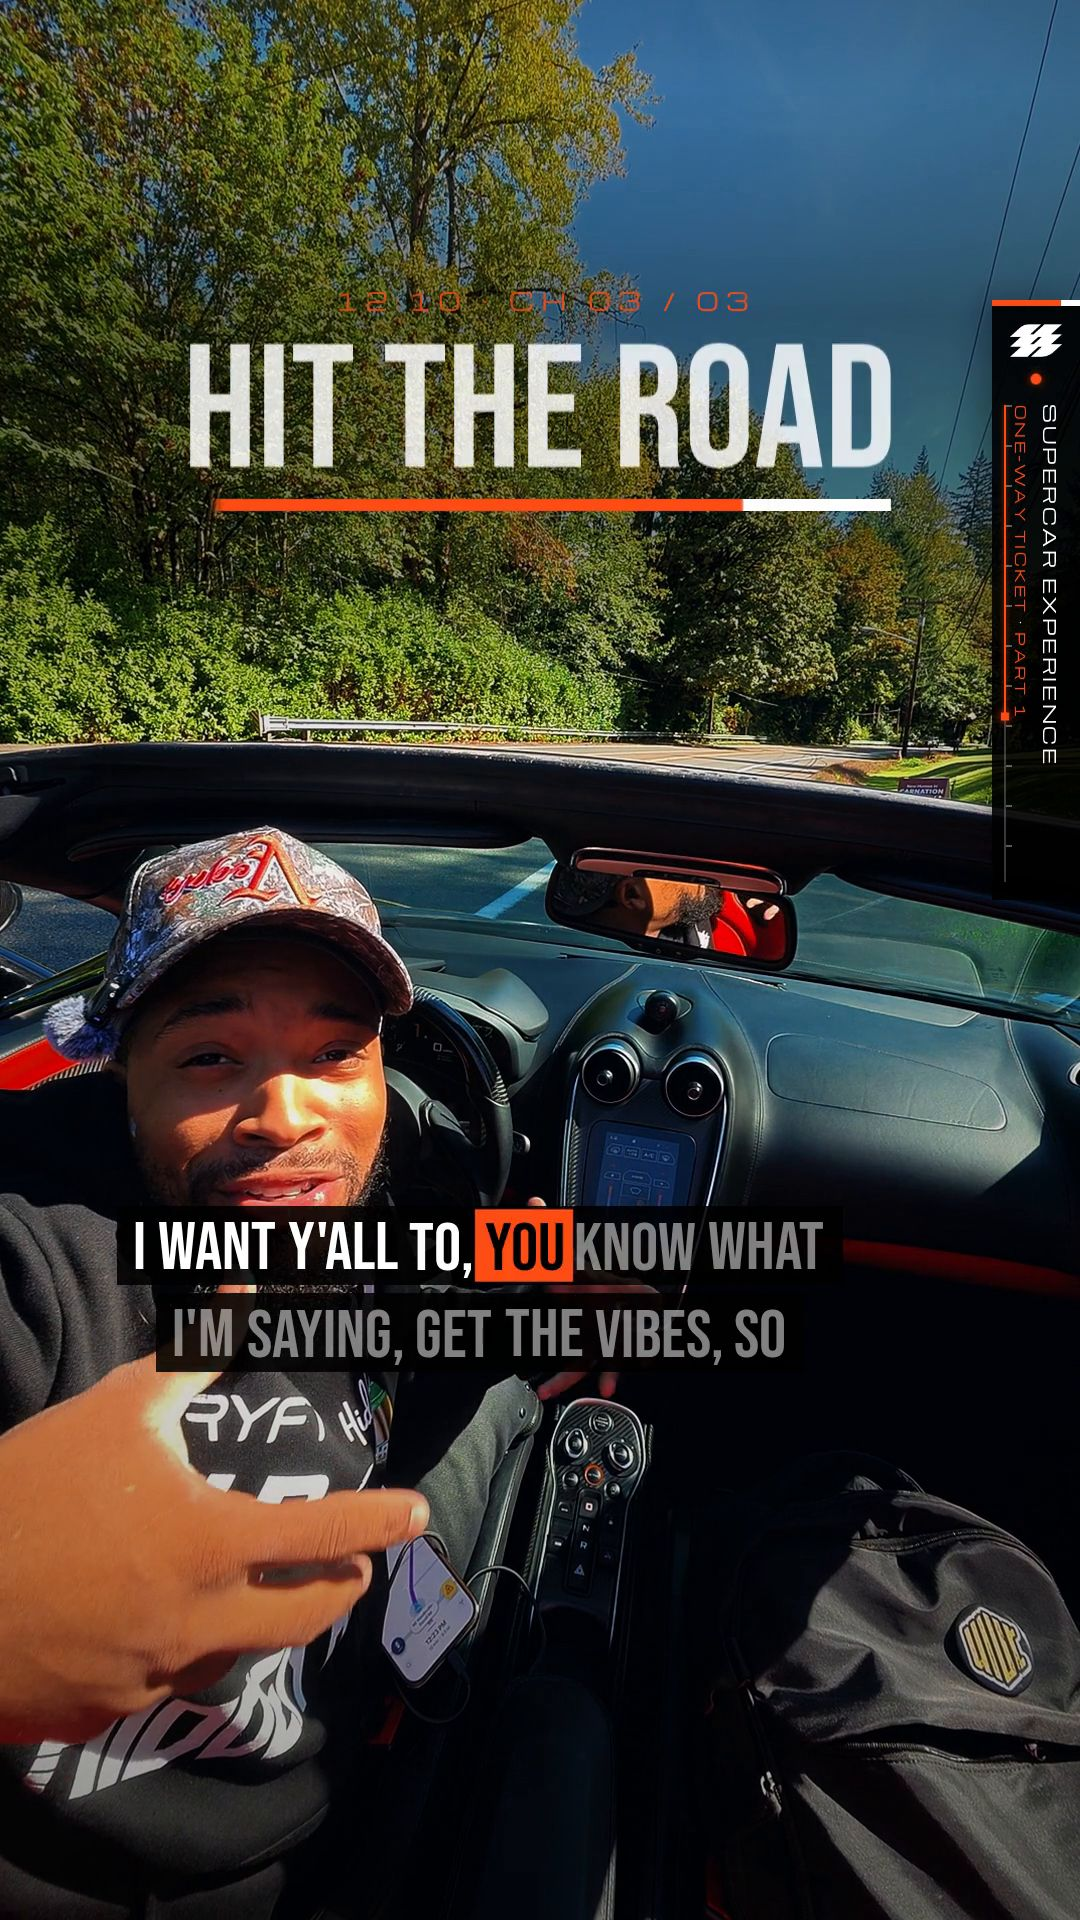
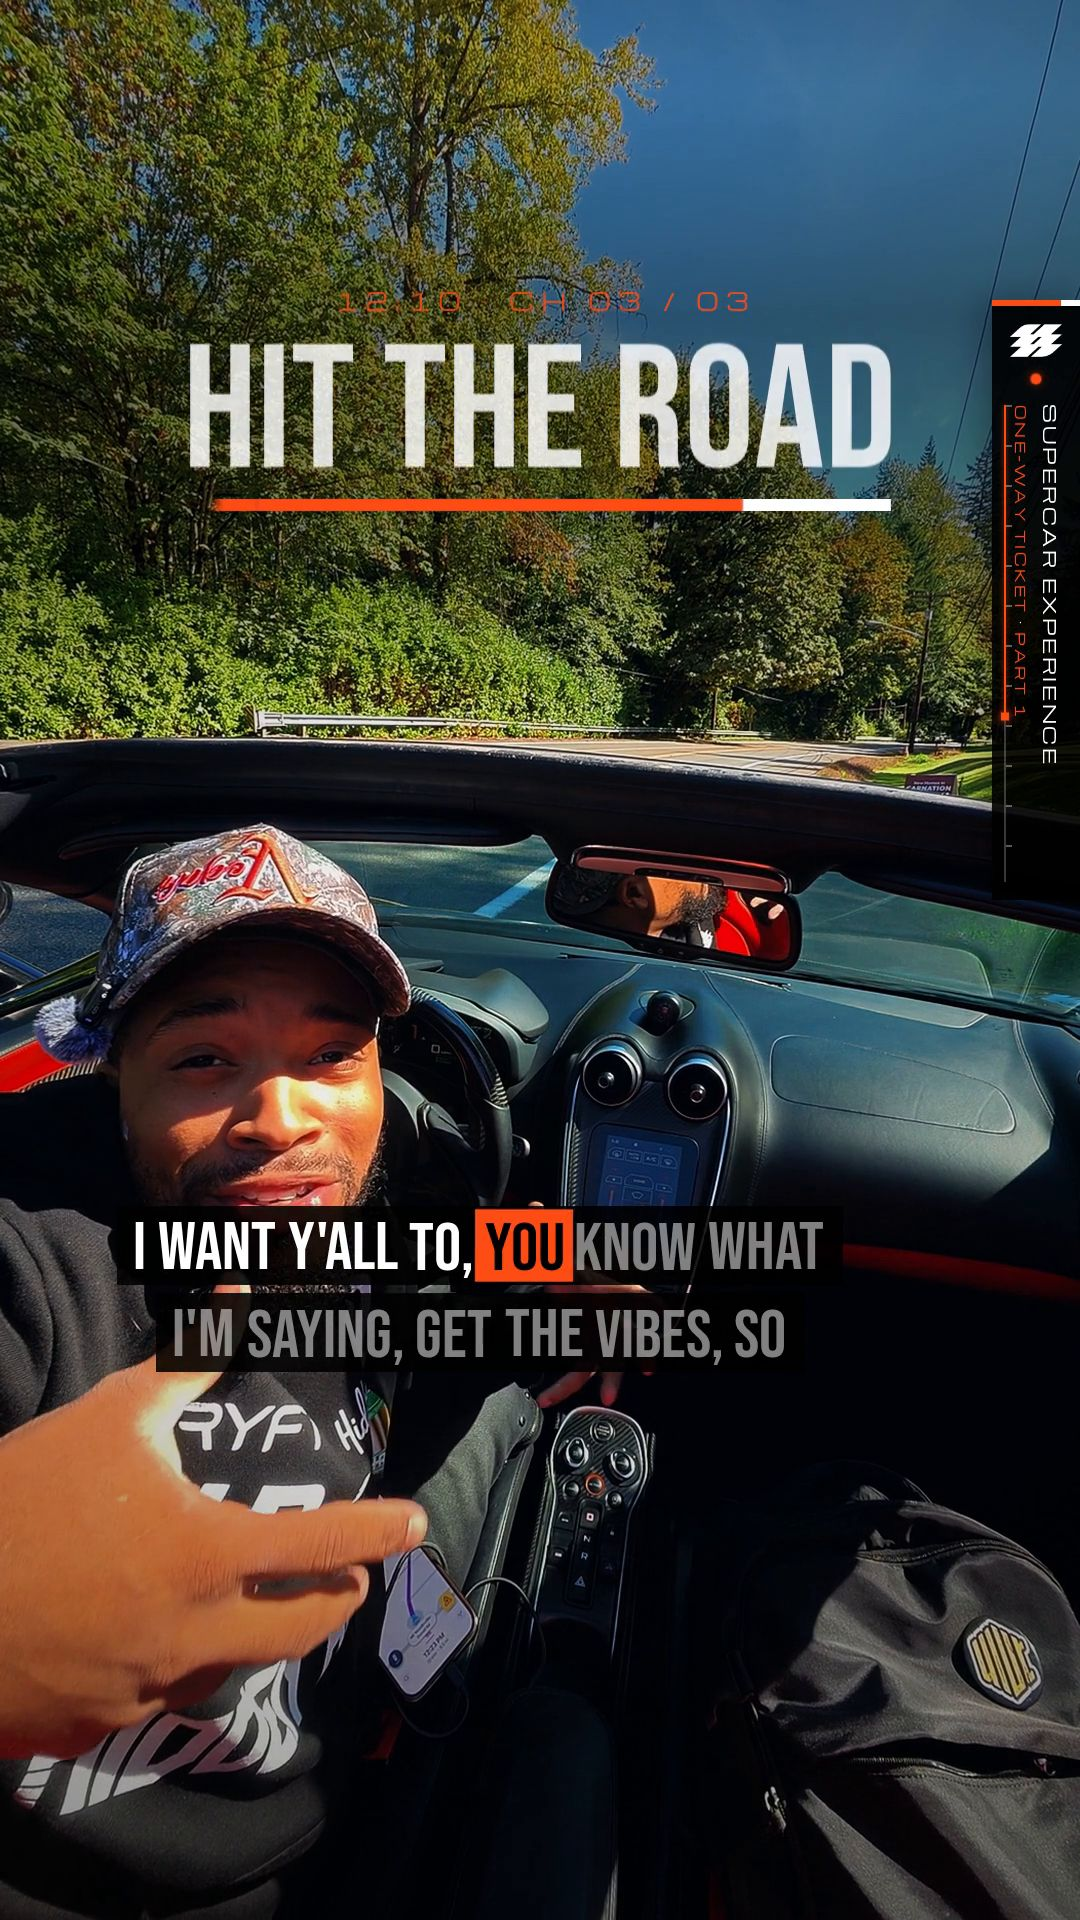
SE vlog One-way ticket Part 1: road cutaway over the stopped-at-junction phone (0094), 0094 phone span forbidden
Picture-only cutaway (0095 33.9-36.1 s, hands on the wheel, cluster blurred) at
116.0-118.2 s; dialog and captions unchanged. Re-rendered; DELIVERY 11.499 Mb/s,
-14.11 LUFS / -1.78 dBTP, gates 0 errors.

Claude-Session: https://claude.ai/code/session_013JoCuN8AVJiDRcQU8W2e21

diff --git a/supercar-experience/10-vlog-locked-on/2026-09-26-one-way-ticket/part1/tools/make_edl.py b/supercar-experience/10-vlog-locked-on/2026-09-26-one-way-ticket/part1/tools/make_edl.py
@@ -90,7 +90,9 @@ beat('CH2', '"It is beautiful out here, like gorgeous. Like I\'m talking gorgeou
 
 # ---------------------------------------------------------------- CH3 HIT THE ROAD (12:10)
 beat('CH3', 'CH3 slam; "I like it. I want y\'all to get the vibe. So you feel me? We gonna get the vibes right now."', [
-    ('0094', 2.2, 7.0, 1.0, 'SYNC: him, then the camera turns to the road'),
+    ('0094', 2.2, 3.2, 1.0, 'SYNC: him, then the camera turns to the road'),
+    ('0095', 33.9, 2.2, 1.0, 'CUTAWAY over 116.0-118.2: he holds and taps a lit phone at a junction (0094 5.6-7.6 s), so the picture is the road (his audio and captions run on)'),
+    ('0094', 7.6, 1.6, 1.0, 'SYNC: back to him, hand off the phone'),
 ], [('0094', 2.34, 9.06, ('sync', 0))])
 beat('CH3', 'the vibes: forest montage (music up, nat under)', [
     ('0095', 46.0, 1.7, 1.0, 'forest'),

diff --git a/supercar-experience/10-vlog-locked-on/2026-09-26-one-way-ticket/part1/cue.md b/supercar-experience/10-vlog-locked-on/2026-09-26-one-way-ticket/part1/cue.md
@@ -35,19 +35,21 @@ Timeline: 5401 frames at 30000/1001 fps = 180.213 s. Frame n is shown at n x 100
 | 26 | 96.80 | 2901-2984 | 0091 | 14.80-17.57 (1x) | cabin | c centre s 1.0-1.04 |  |
 | 27 | 99.60 | 2985-3134 | 0092 | 7.80-18.51 (ramp 0.00:1.0 0.34:1.0 0.50:3.0 1.00:3.0) | cabin | c centre s 1.0-1.04 |  |
 | 28 | 104.60 | 3135-3380 | 0093 | 4.10-12.28 (1x) | cabin | c centre s 1.0-1.04 |  |
-| 29 | 112.80 | 3381-3589 | 0094 | 2.21-9.15 (1x) | cabin | c centre s 1.0-1.04 | sweep 0.36 s |
-| 30 | 119.80 | 3590-3640 | 0095 | 45.99-47.65 (1x) | cabin | c centre s 1.0-1.04 | whip left |
-| 31 | 121.50 | 3641-3688 | 0095 | 51.99-53.56 (1x) | cabin | c centre s 1.0-1.04 | whip right |
-| 32 | 123.10 | 3689-3862 | 0095 | 27.99-33.76 (1x) | cabin | c centre s 1.0-1.04 |  |
-| 33 | 128.90 | 3863-4102 | 0096 | 32.60-40.57 (1x) | cabin | c centre s 1.0-1.0 |  |
-| 34 | 136.90 | 4103-4162 | 0097 | 16.00-17.97 (1x) | cabin | c centre s 1.0-1.04 | whip right |
-| 35 | 138.90 | 4163-4402 | 0099 | 166.01-173.98 (1x) | cabin | c centre s 1.0-1.0 | whip left |
-| 36 | 146.90 | 4403-4533 | 0100 | 33.01-37.35 (1x) | cabin | c centre s 1.0-1.04 |  |
-| 37 | 151.30 | 4534-4707 | 0101 | 2.58-8.36 (1x) | cabin | c centre s 1.0-1.04 |  |
-| 38 | 157.10 | 4708-4821 | 0102 | 4.39-8.16 (1x) | day | c centre s 1.0-1.04 |  |
-| 39 | 160.90 | 4822-5070 | 0102 | 17.29-25.57 (1x) | day | c centre s 1.0-1.04 |  |
-| 40 | 169.20 | 5071-5238 | 0102 | 81.60-87.17 (1x) | day | c centre s 1.0-1.04 |  |
-| 41 | 174.80 | 5239-5400 | end card | | | the last shot runs 0.35 s under the card wipe, then black | |
+| 29 | 112.80 | 3381-3476 | 0094 | 2.21-5.38 (1x) | cabin | c centre s 1.0-1.04 | sweep 0.36 s |
+| 30 | 116.00 | 3477-3541 | 0095 | 33.92-36.05 (1x) | cabin | c centre s 1.0-1.0 |  |
+| 31 | 118.20 | 3542-3589 | 0094 | 7.58-9.15 (1x) | cabin | c centre s 1.0-1.04 |  |
+| 32 | 119.80 | 3590-3640 | 0095 | 45.99-47.65 (1x) | cabin | c centre s 1.0-1.04 | whip left |
+| 33 | 121.50 | 3641-3688 | 0095 | 51.99-53.56 (1x) | cabin | c centre s 1.0-1.04 | whip right |
+| 34 | 123.10 | 3689-3862 | 0095 | 27.99-33.76 (1x) | cabin | c centre s 1.0-1.04 |  |
+| 35 | 128.90 | 3863-4102 | 0096 | 32.60-40.57 (1x) | cabin | c centre s 1.0-1.0 |  |
+| 36 | 136.90 | 4103-4162 | 0097 | 16.00-17.97 (1x) | cabin | c centre s 1.0-1.04 | whip right |
+| 37 | 138.90 | 4163-4402 | 0099 | 166.01-173.98 (1x) | cabin | c centre s 1.0-1.0 | whip left |
+| 38 | 146.90 | 4403-4533 | 0100 | 33.01-37.35 (1x) | cabin | c centre s 1.0-1.04 |  |
+| 39 | 151.30 | 4534-4707 | 0101 | 2.58-8.36 (1x) | cabin | c centre s 1.0-1.04 |  |
+| 40 | 157.10 | 4708-4821 | 0102 | 4.39-8.16 (1x) | day | c centre s 1.0-1.04 |  |
+| 41 | 160.90 | 4822-5070 | 0102 | 17.29-25.57 (1x) | day | c centre s 1.0-1.04 |  |
+| 42 | 169.20 | 5071-5238 | 0102 | 81.60-87.17 (1x) | day | c centre s 1.0-1.04 |  |
+| 43 | 174.80 | 5239-5400 | end card | | | the last shot runs 0.35 s under the card wipe, then black | |
 
 ## Layer elements
 
@@ -142,10 +144,10 @@ Music: original synth bed (lib/music.py), no music.wav supplied (104.7273 BPM, f
 | SE-LO_11_tick_lock.wav | 79.21 | lock LOCK | -17.6 dB (-0.4) |
 | SE-LO_04_whoosh_left_to_right.wav | 112.98 | gold light sweep | -13.3 dB (+0.0) |
 | SE-LO_02_hit_drop.wav | 113.16 | chapter slam HIT THE ROAD | -26.1 dB (-6.0) |
-| SE-LO_05_whoosh_right_to_left.wav | 119.8 | whip into shot 30 | -16.2 dB (-5.9) |
-| SE-LO_04_whoosh_left_to_right.wav | 121.5 | whip into shot 31 | -10.5 dB (+0.0) |
-| SE-LO_05_whoosh_right_to_left.wav | 136.9 | whip into shot 34 | -8.3 dB (+0.0) |
-| SE-LO_04_whoosh_left_to_right.wav | 138.9 | whip into shot 35 | -12.5 dB (+0.0) |
+| SE-LO_05_whoosh_right_to_left.wav | 119.8 | whip into shot 32 | -16.2 dB (-5.9) |
+| SE-LO_04_whoosh_left_to_right.wav | 121.5 | whip into shot 33 | -10.5 dB (+0.0) |
+| SE-LO_05_whoosh_right_to_left.wav | 136.9 | whip into shot 36 | -8.3 dB (+0.0) |
+| SE-LO_04_whoosh_left_to_right.wav | 138.9 | whip into shot 37 | -12.5 dB (+0.0) |
 | SE-LO_11_tick_lock.wav | 148.4 | v2place in | -25.5 dB (-6.0) |
 | SE-LO_11_tick_lock.wav | 169.8 | v2place in | -27.1 dB (-6.0) |
 | SE-LO_03_hit_endcard.wav | 174.8 | end card | -11.7 dB (+0.0) |

diff --git a/supercar-experience/10-vlog-locked-on/2026-09-26-one-way-ticket/part1/README.md b/supercar-experience/10-vlog-locked-on/2026-09-26-one-way-ticket/part1/README.md
@@ -124,7 +124,7 @@ zeros. On the delivered master: -14.11 LUFS integrated, -1.69 dBTP true peak.
 
 ## Picture
 
-- **The cut** is `data/edl.json` (`tools/make_edl.py`): 41 shots + the end card, 5,401 frames at 29.97 fps (180.2 s),
+- **The cut** is `data/edl.json` (`tools/make_edl.py`): 43 shots + the end card, 5,401 frames at 29.97 fps (180.2 s),
   27 dialog pieces. Sources are the Osmo Action 6 open-gate clips (3840x3840 59.94p), fetched as 1920x1920 mezzanines
   (`vlog.py plan` / `fetch`); 59.94 sources drop every other frame at 1x.
 - **Reframe:** a 1080x1920 window centred on the square frame with rally v2's slow 4 % push; the two HUD shots hold still
@@ -186,7 +186,7 @@ zeros. On the delivered master: -14.11 LUFS integrated, -1.69 dBTP true peak.
 3. **Side G shows magnitude only** (6 Oct, facts panel): the left / right sign was never calibrated (no turn in either window), so the bar fills from the left and nothing implies a direction.
 4. **Held lines** (lead, 6 Oct): the fuel-stop "I don't think I'm going to go to sleep, I'm just gonna run it the whole
    way" (reads as a drowsy-driving boast), the shop's name, the gas price, the miles and the "12 hours" lines.
-5. **Phone in hand while driving** in 0094 176-232 s and 0096 41.8-47 s is out (config `forbidden`); STRIP-1 now sits on 0096 32.6-40.6 s and the hook's 0096 frames on 39.0-40.8 s (both hands on the wheel, checked frame by frame; every other cabin-cam shot was swept for a held phone: none); a water bottle in hand shows briefly in a
+5. **Phone in hand while driving** in 0094 176-232 s, 0096 41.8-47 s and 0094 5.6-7.5 s (the junction, under "you feel me" / "we gon' catch the vibes") is out (config `forbidden`); 116.0-118.2 s is a cutaway to the road (0095 33.9-36.1 s, both hands on the wheel, speedometer blurred) with his audio and captions running on; STRIP-1 now sits on 0096 32.6-40.6 s and the hook's 0096 frames on 39.0-40.8 s (both hands on the wheel, checked frame by frame; every other cabin-cam shot was swept for a held phone: none); a water bottle in hand shows briefly in a
    few driving frames elsewhere and was avoided where the footage allowed.
 6. **The index missed one speed line** (0093 1:55.8-2:00.2, "speed limit 35 we're going 45"): not in the cut, and added to
    config `forbidden`.

diff --git a/supercar-experience/10-vlog-locked-on/2026-09-26-one-way-ticket/part1/exports/qa/gates.md b/supercar-experience/10-vlog-locked-on/2026-09-26-one-way-ticket/part1/exports/qa/gates.md
@@ -1,5 +1,5 @@
 # Gates (build.py, before the render)
 
-2026-10-06 07:38; errors stop a full render, the rest is for the reviewer.
+2026-10-06 16:10; errors stop a full render, the rest is for the reviewer.
 
 - all clear
